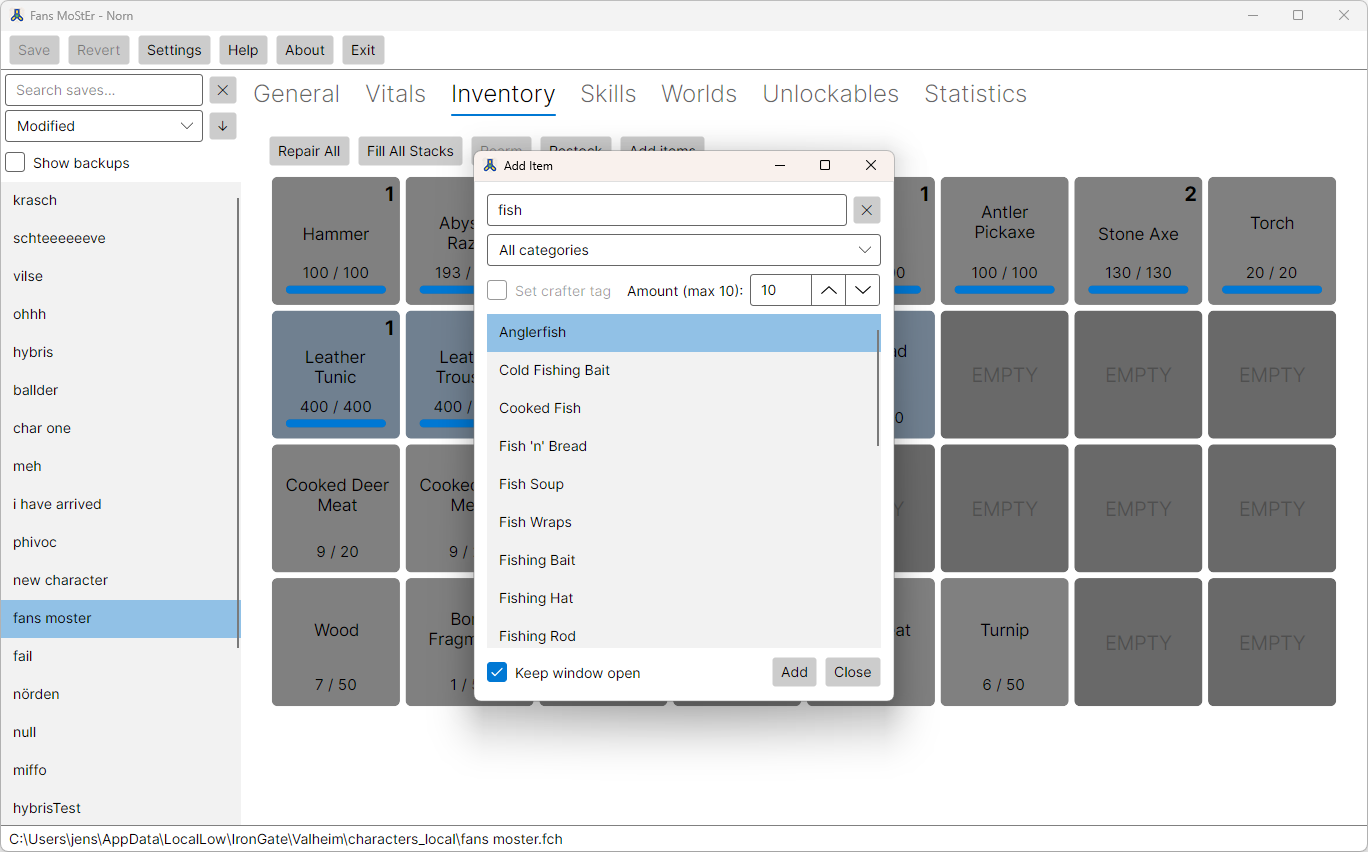
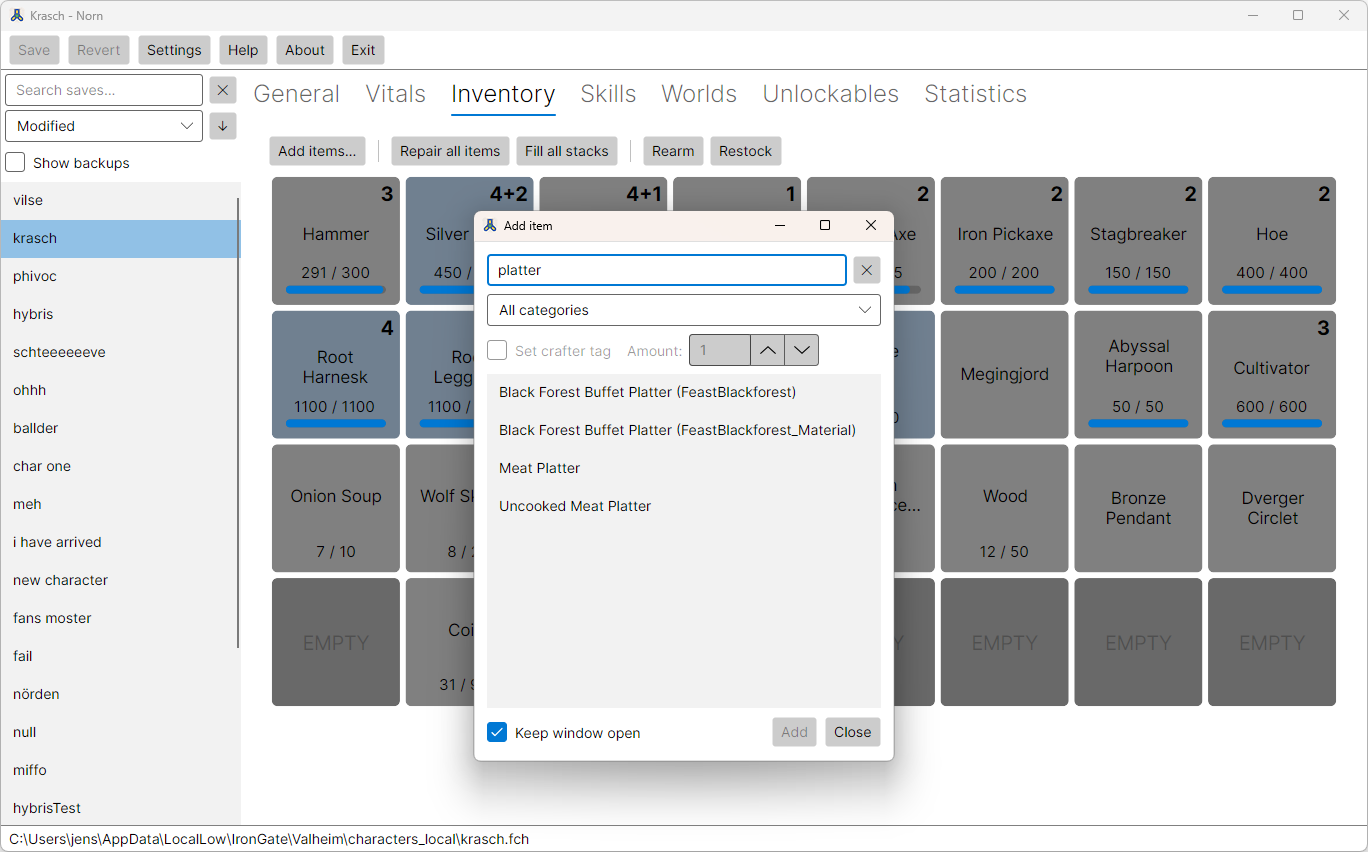
Tweak: inventory buttons
Tweaked the naming, order and grouping of the buttons in inventory.
Also added tooltips for them for clarity.

diff --git a/Norn.UI/Tabs/InventoryTabModule.cs b/Norn.UI/Tabs/InventoryTabModule.cs
@@ -76,11 +76,12 @@ public sealed class InventoryTabModule : ITabModule
     /// small data table rather than two bespoke button blocks so a future
     /// "N configurable quick-fill buttons" extension (Settings-driven
     /// label/category mapping) is a data change here, not a redesign.
+    /// <c>Scope</c> is the plural noun the button's tooltip names.
     /// </summary>
-    private static readonly (string Label, ItemType[] Types)[] QuickFillPresets =
+    private static readonly (string Label, string Scope, ItemType[] Types)[] QuickFillPresets =
     [
-        ("Rearm", [ItemType.Ammo, ItemType.AmmoNonEquipable]),
-        ("Restock", [ItemType.Consumable]),
+        ("Rearm", "ammo", [ItemType.Ammo, ItemType.AmmoNonEquipable]),
+        ("Restock", "consumables", [ItemType.Consumable]),
     ];
 
     public Control Build(CharacterEditor editor, Action onEdited, Action<string> onMessage)
@@ -106,11 +107,12 @@ public sealed class InventoryTabModule : ITabModule
 
         var items = editor.View.Inventory.Items;
 
-        var buttonRow = new StackPanel { Orientation = Orientation.Horizontal, Spacing = 8 };
+        var buttonRow = new StackPanel { Orientation = Orientation.Horizontal, Spacing = 12 };
 
         var repairableCount = items.Count(CanRepair);
-        var repairAll = new Button { Content = "Repair All" };
+        var repairAll = new Button { Content = "Repair all items" };
         repairAll.IsEnabled = repairableCount > 0;
+        SetActionTip(repairAll, "Repairs every damaged item to full durability.", "No damaged items.");
         repairAll.Click += (_, _) =>
         {
             editor.RepairAllItems();
@@ -120,8 +122,9 @@ public sealed class InventoryTabModule : ITabModule
         };
 
         var fillableCount = items.Count(CanFillStack);
-        var fillAll = new Button { Content = "Fill All Stacks" };
+        var fillAll = new Button { Content = "Fill all stacks" };
         fillAll.IsEnabled = fillableCount > 0;
+        SetActionTip(fillAll, "Tops up every stack that isn't full to its maximum size.", "No stacks to fill.");
         fillAll.Click += (_, _) =>
         {
             editor.FillAllStacks();
@@ -130,9 +133,12 @@ public sealed class InventoryTabModule : ITabModule
             Rebuild(container, editor, onEdited, onMessage, carry);
         };
 
-        var addItem = new Button { Content = "Add items" };
+        // Ellipsis: the click opens a picker that needs input before anything
+        // is added.
+        var addItem = new Button { Content = "Add items…" };
         var emptySlot = FindFirstEmptySlot(items);
         addItem.IsEnabled = emptySlot is not null || items.Any(CanFillStack);
+        SetActionTip(addItem, "Opens the item picker to add items to the inventory.", "Inventory is full.");
         addItem.Click += async (_, _) =>
         {
             // No anchor — the toolbar button never targets one specific
@@ -145,15 +151,25 @@ public sealed class InventoryTabModule : ITabModule
             await AddItem(null, editor, addItem, onEdited, onMessage, () => Rebuild(container, editor, onEdited, onMessage, carry));
         };
 
-        buttonRow.Children.Add(repairAll);
-        buttonRow.Children.Add(fillAll);
+        // Grouped by scope, general to specific, with a thin divider between
+        // groups: Add items (the one action that brings in new content), the
+        // whole-inventory actions, then the category presets — their own
+        // group because they're the part slated to become user-configurable,
+        // and last so new presets extend the row at its natural end.
+        var presetGroup = ButtonGroup();
+        buttonRow.Children.Add(ButtonGroup(addItem));
+        buttonRow.Children.Add(GroupDivider());
+        buttonRow.Children.Add(ButtonGroup(repairAll, fillAll));
+        buttonRow.Children.Add(GroupDivider());
+        buttonRow.Children.Add(presetGroup);
 
-        foreach (var (label, types) in QuickFillPresets)
+        foreach (var (label, scope, types) in QuickFillPresets)
         {
             var typeSet = new HashSet<ItemType>(types);
             var quickFillCount = items.Count(i => CanFillStackOfType(i, typeSet));
             var quickFill = new Button { Content = label };
             quickFill.IsEnabled = quickFillCount > 0;
+            SetActionTip(quickFill, $"Tops up {scope} stacks only.", $"No {scope} stacks to fill.");
             quickFill.Click += (_, _) =>
             {
                 editor.FillStacksOfType(typeSet);
@@ -161,14 +177,42 @@ public sealed class InventoryTabModule : ITabModule
                 onEdited();
                 Rebuild(container, editor, onEdited, onMessage, carry);
             };
-            buttonRow.Children.Add(quickFill);
+            presetGroup.Children.Add(quickFill);
         }
 
-        buttonRow.Children.Add(addItem);
         container.Children.Add(buttonRow);
 
         container.Children.Add(BuildGrid(editor, () => Rebuild(container, editor, onEdited, onMessage, carry), onEdited, onMessage, carry));
     }
+
+    private static StackPanel ButtonGroup(params Button[] buttons)
+    {
+        var group = new StackPanel { Orientation = Orientation.Horizontal, Spacing = 6 };
+        foreach (var button in buttons)
+        {
+            group.Children.Add(button);
+        }
+
+        return group;
+    }
+
+    /// <summary>
+    /// Sets a toolbar button's tooltip, shown even while disabled so a greyed
+    /// button explains why. Call after setting <c>IsEnabled</c>.
+    /// </summary>
+    private static void SetActionTip(Button button, string action, string disabledReason)
+    {
+        ToolTip.SetTip(button, button.IsEnabled ? action : $"{action}\n{disabledReason}");
+        ToolTip.SetShowOnDisabled(button, true);
+    }
+
+    private static Border GroupDivider() => new()
+    {
+        Width = 1,
+        Background = Brushes.Gray,
+        Opacity = 0.5,
+        Margin = new Thickness(0, 4),
+    };
 
     // Logical, content-independent tile edge length. Fixed (not Min) and paired
     // with the Viewbox below: a tile's actual desired size used to be driven by

diff --git a/Norn.UI/Settings.cs b/Norn.UI/Settings.cs
@@ -90,7 +90,7 @@ public sealed class Settings
     [Setting(Group = "Worlds", Description = "Show the explanation of where world names/seeds come from.")]
     public bool ShowWorldsIdentityInfo { get; set; } = true;
 
-    [Setting(Group = "Worlds", Description = "Show the warning about what \"Explore All\" does to a world's map.")]
+    [Setting(Group = "Worlds", Description = "Show the warning about what \"Reveal world\" does to a world's map.")]
     public bool ShowExploreWorldWarning { get; set; } = true;
 
     // Moved off AppState, 2026-09-02: a stuck-checked last-used value and a

diff --git a/Norn.UI/Windows/AddItemWindow.cs b/Norn.UI/Windows/AddItemWindow.cs
@@ -139,7 +139,7 @@ internal sealed class AddItemWindow : Window
         _allowKeepOpen = allowKeepOpen;
         _onPick = onPick;
 
-        Title = "Add Item";
+        Title = "Add item";
         Icon = AppIcon.Default;
         Width = 420;
         Height = 520;

diff --git a/Norn.UI/Windows/HelpWindow.cs b/Norn.UI/Windows/HelpWindow.cs
@@ -33,7 +33,7 @@ internal sealed class HelpWindow : Window
 
     private HelpWindow(string? section)
     {
-        Title = $"{AppInfo.Name} Help";
+        Title = $"{AppInfo.Name} help";
         Icon = AppIcon.Default;
         Width = 640;
         Height = 680;
